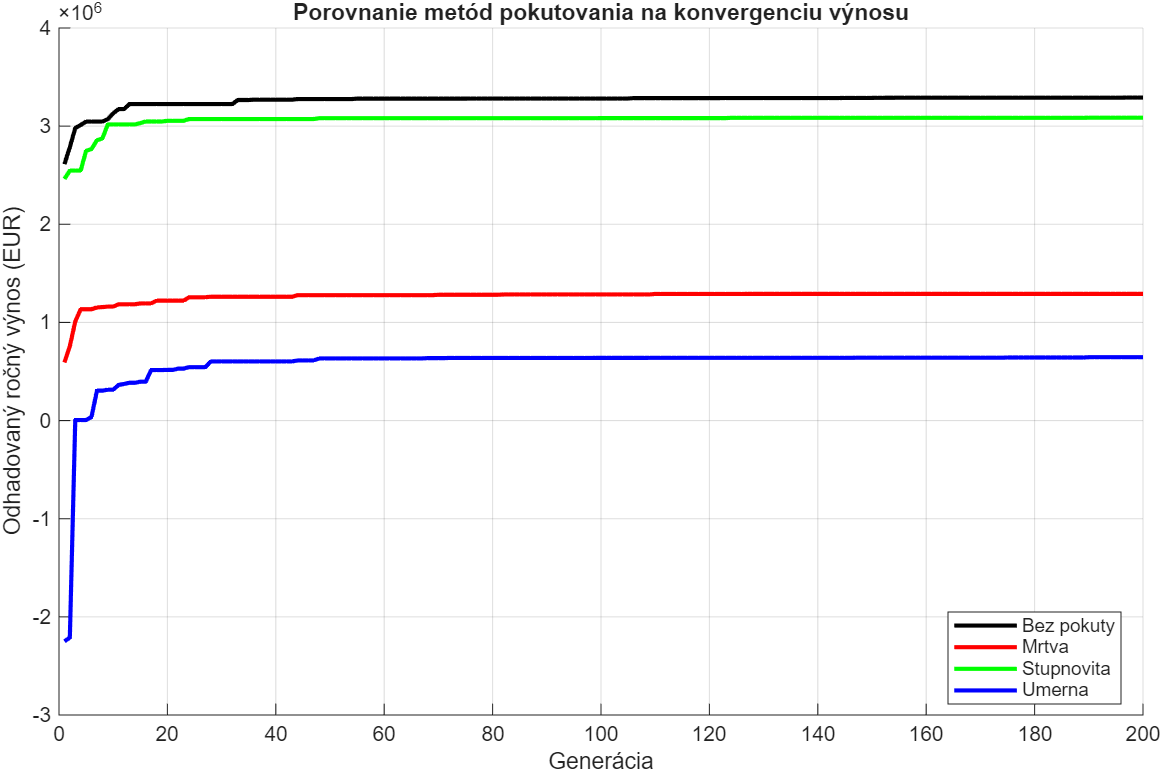
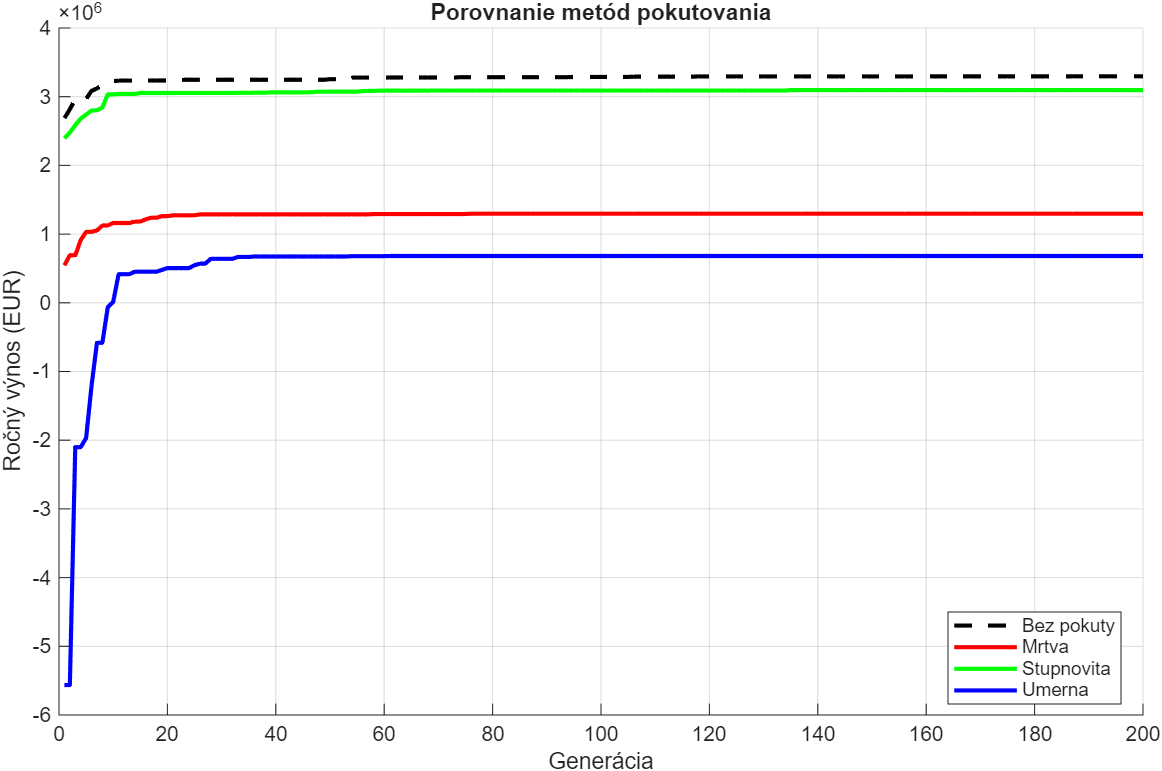
FINAL CV4 T-T

diff --git a/CV4/Matlab/CV4.m b/CV4/Matlab/CV4.m
@@ -1,93 +1,116 @@
-D = 5; 
-num = 100;
-SPACE_A = [zeros(1,D); ones(1,D)*10000000];
-Amp = [ones(1,D)];
-max_gen = 200; 
+%% ZADANIE Č. 4: ALOKÁCIA INVESTÍCIÍ DO FINANČNÝCH PRODUKTOV
 
-% Názvy metód pre legendu a logiku
+% --- KONFIGURÁCIA EXPERIMENTU (Bod 1 a 4 zadania) ---
+D = 5;              % Počet produktov
+num = 100;          % Veľkosť populácie
+max_gen = 200;      
+pocet_behov = 5;    % Bod 4: Opakovanie výpočtu minimálne 5-krát
+
+SPACE_A = [zeros(1,D); ones(1,D)*10000000];
+Amp = [ones(1,D)];  
+
+% Definícia metód pokutovania (Bod 3 zadania)
 metody = {'Bez pokuty', 'Mrtva', 'Stupnovita', 'Umerna'};
 vsetky_historie = zeros(length(metody), max_gen);
 
 for m = 1:length(metody)
-    fprintf('Beží výpočet pre metódu: %s...\n', metody{m});
-    pop = genrpop(num, SPACE_A);
-    fitness_history = zeros(1, max_gen);
+    fprintf('Spracovávam metódu: %s...\n', metody{m});
     
-    for gen = 1:max_gen
-        fitnesak = zeros(1, num);
-        for i = 1:num
-            % Základný výnos (fitness bez pokuty) 
-            vynos = 0.04*pop(i,1) + 0.07*pop(i,2) + 0.11*pop(i,3) + 0.06*pop(i,4) + 0.05*pop(i,5);
-            
-            % Výber pokuty podľa aktuálneho cyklu 
-            switch metody{m}
-                case 'Bez pokuty'
-                    pokuta = 0;
-                case 'Mrtva'
-                    pokuta = get_mrtva_pokuta(pop(i,:));
-                case 'Stupnovita'
-                    pokuta = get_stupnovita_pokuta(pop(i,:));
-                case 'Umerna'
-                    pokuta = get_umerna_pokuta(pop(i,:));
+    % --- GRAFICKÉ ZOBRAZENIE BEHOV (Bod 4 zadania) ---
+    figure(m); hold on;
+    title(['Stabilita konvergencie: ', metody{m}]);
+    xlabel('Generácia'); ylabel('Fitness');
+    
+    najlepsia_fitness_metody = inf;
+    najlepsi_x_metody = zeros(1, D);
+    
+    for b = 1:pocet_behov
+        pop = genrpop(num, SPACE_A);
+        fitness_history = zeros(1, max_gen);
+        
+        for gen = 1:max_gen
+            fitnesak = zeros(1, num);
+            for i = 1:num
+                % Výpočet výnosu (Bod 4 zadania)
+                vynos = 0.04*pop(i,1) + 0.07*pop(i,2) + 0.11*pop(i,3) + 0.06*pop(i,4) + 0.05*pop(i,5);
+                
+                % Implementácia rôznych metód pokutovania (Bod 3 zadania)
+                switch metody{m}
+                    case 'Bez pokuty'
+                        pokuta = 0;
+                    case 'Mrtva'
+                        pokuta = get_mrtva_pokuta(pop(i,:));
+                    case 'Stupnovita'
+                        pokuta = get_stupnovita_pokuta(pop(i,:));
+                    case 'Umerna'
+                        pokuta = get_umerna_pokuta(pop(i,:));
+                end
+                
+                % Fitness funkcia pre GA Toolbox (Bod 2 a 4 zadania)
+                fitnesak(i) = -vynos + pokuta;
             end
             
-            % Minimalizujeme záporný výnos + pokutu
-            fitnesak(i) = -vynos + pokuta;
+            % Genetické operátory (Selekcia, kríženie, mutácia)
+            Best = selbest(pop, fitnesak, 1);
+            Rest = selsus(pop, fitnesak, num - 1);
+            Work = mutx(crossov(Rest, 1, 0), 0.05, SPACE_A);   
+            pop = [Best; muta(Work, 0.05, Amp, SPACE_A)];
+            
+            fitness_history(gen) = min(fitnesak);
         end
         
-        % Selekcia a genetika (tvoje overené nastavenie)
-        Best = selbest(pop, fitnesak, 1);
-        Rest = selsus(pop, fitnesak, num - 1);
-        Incest = crossov(Rest, 1, 0);
-        Work = mutx(Incest, 0.05, SPACE_A);   
-        AditivnaMutacia = muta(Work, 0.05, Amp, SPACE_A); 
-        pop = [Best; AditivnaMutacia];
+        % Vykreslenie všetkých 5 behov (Bod 4 zadania)
+        plot(fitness_history, 'DisplayName', sprintf('Beh %d', b));
         
-        fitness_history(gen) = min(fitnesak);
+        % Identifikácia a uloženie najlepšieho riešenia (Bod 5 zadania)
+        if fitness_history(end) < najlepsia_fitness_metody
+            najlepsia_fitness_metody = fitness_history(end);
+            vsetky_historie(m, :) = fitness_history;
+            najlepsi_x_metody = pop(1,:);
+        end
     end
-    vsetky_historie(m, :) = fitness_history;
+    legend('show'); grid on;
+    
+    % --- ARCHIVÁCIA VÝSLEDKOV PRE PREZENTÁCIU (Bod 5 a 7 zadania) ---
+    fprintf('>>> FINÁLNE DÁTA PRE METÓDU: %s\n', metody{m});
+    fprintf('Optimálna alokácia x: [%.0f, %.0f, %.0f, %.0f, %.0f] EUR\n', najlepsi_x_metody);
+    v_final = get_violation_vector(najlepsi_x_metody);
+    fprintf('Kontrola ohraničení (v): [%.2f, %.2f, %.2f, %.2f]\n\n', v_final);
 end
 
-% --- FINÁLNE VYKRESLENIE (Bod 6 a 89) ---
-figure(2); hold on;
-farby = {'k-', 'r-', 'g-', 'b-'}; % Čierna prerušovaná pre 'Bez pokuty'
+% --- POROVNANIE METÓD POKUTOVANIA (Bod 6 zadania) ---
+figure(5); hold on;
+farby = {'k--', 'r-', 'g-', 'b-'}; 
 for m = 1:length(metody)
-    % Vykresľujeme kladný výnos (otočíme fitness späť) [cite: 127]
+    % Zobrazenie priebehov konvergencie pre archiváciu (Bod 6 a 7 zadania)
     plot(-vsetky_historie(m, :), farby{m}, 'LineWidth', 2);
 end
-
-xlabel('Generácia'); 
-ylabel('Odhadovaný ročný výnos (EUR)');
-title('Porovnanie metód pokutovania na konvergenciu výnosu');
+xlabel('Generácia'); ylabel('Ročný výnos (EUR)');
+title('Porovnanie metód pokutovania');
 legend(metody, 'Location', 'best');
 grid on;
 
+%% FUNKCIE OHRANIČENÍ A POKÚT (Bod 3 a 4 zadania)
 
 function pen = get_mrtva_pokuta(x)
-    % Fixná penalizácia za akékoľvek porušenie 
-    if check_any_violation(x), pen = 2000000; else, pen = 0; end
+    if any(get_violation_vector(x) > 0), pen = 2000000; else, pen = 0; end
 end
 
 function pen = get_stupnovita_pokuta(x)
-    % Penalizácia podľa počtu porušených pravidiel 
     v = get_violation_vector(x);
     pen = sum(v > 0) * 100000; 
 end
 
 function pen = get_umerna_pokuta(x)
-    % Penalizácia podľa miery (veľkosti) porušenia 
     v = get_violation_vector(x);
     pen = sum(v) * 2; 
 end
 
 function v = get_violation_vector(x)
+    % Výpočet miery porušenia štyroch ohraničení (Bod 4 zadania)
     v = zeros(1,4);
     v(1) = max(0, sum(x) - 10000000);             
     v(2) = max(0, (x(1) + x(2)) - 2500000);       
     v(3) = max(0, x(5) - x(4));                   
     v(4) = max(0, (x(3) + x(4)) - 0.5*sum(x));    
-end
-
-function is_violating = check_any_violation(x)
-    is_violating = any(get_violation_vector(x) > 0);
 end
